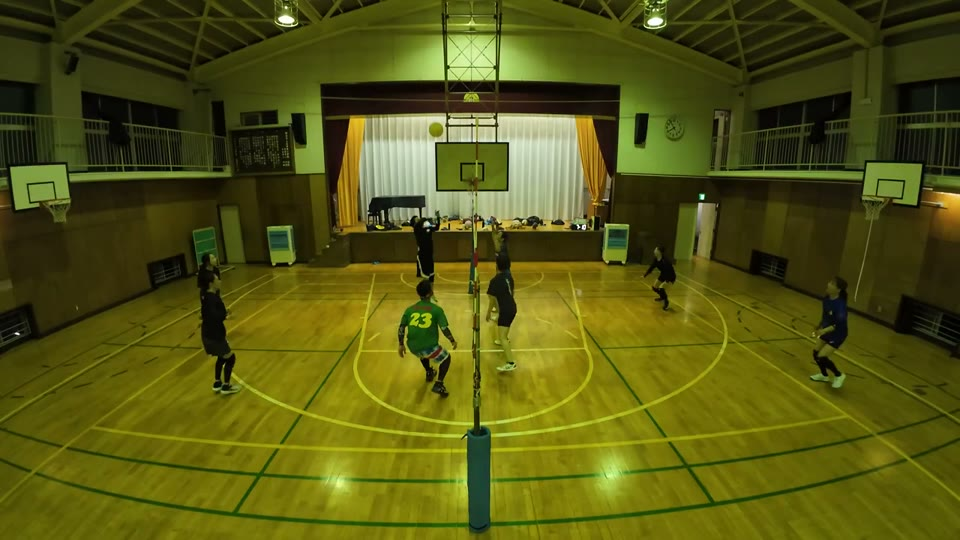
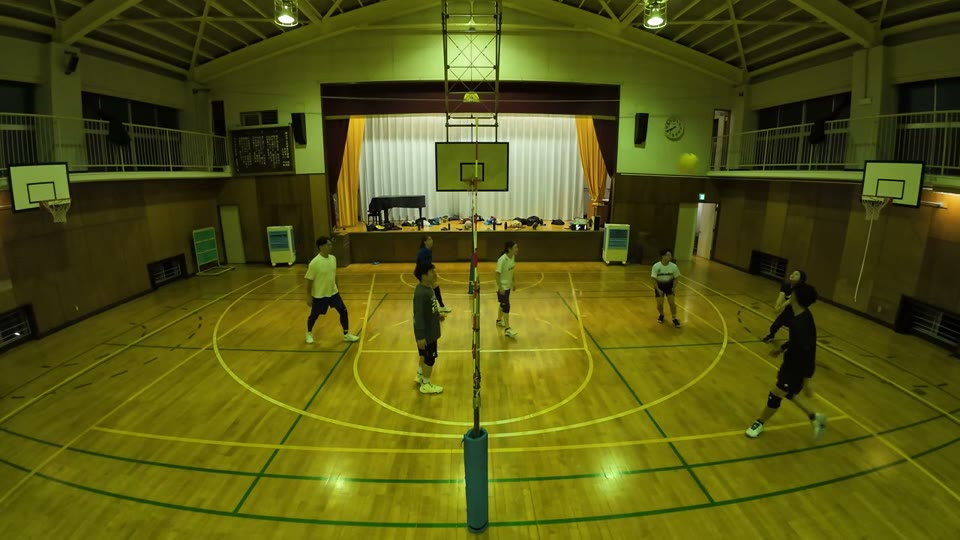
10/24 講評: 同じプレーは1か所だけ・ひとこまは19:44のみ・ゆりこ/りるのジャッジはトス賞へ統合

diff --git a/kouhyou/20261024.html b/kouhyou/20261024.html
@@ -365,20 +365,20 @@
 
   <div class="card summary-card">
     <a class="award" href="#award1">
-      <div class="award-faces"><img src="faces/ruki.jpg" alt="るき"></div>
-      <div class="award-body">
-        <div class="award-label">稲妻アタック賞</div>
-        <div class="award-who">るき</div>
-        <div class="award-why">稲妻が出るほど速いアタックが4本</div>
-      </div>
-      <span class="award-go"><svg viewBox="0 0 24 24" fill="none" stroke="currentColor" stroke-width="2.5"><path d="M9 5l7 7-7 7"></path></svg></span>
-    </a>
-    <a class="award" href="#award2">
       <div class="award-faces"><img src="../assets/drop-icon.jpg" alt="ゆきよ・こうすけ・るき"></div>
       <div class="award-body">
         <div class="award-label">ベストつなぎラリー賞</div>
         <div class="award-who">ゆきよ・こうすけ・るき</div>
         <div class="award-why">レシーブ→ジャンプトス→アタックの3人でつないだ、この日いちばんのラリー</div>
+      </div>
+      <span class="award-go"><svg viewBox="0 0 24 24" fill="none" stroke="currentColor" stroke-width="2.5"><path d="M9 5l7 7-7 7"></path></svg></span>
+    </a>
+    <a class="award" href="#award2">
+      <div class="award-faces"><img src="faces/ruki.jpg" alt="るき"></div>
+      <div class="award-body">
+        <div class="award-label">稲妻アタック賞</div>
+        <div class="award-who">るき</div>
+        <div class="award-why">稲妻が出るほど速いアタックが4本</div>
       </div>
       <span class="award-go"><svg viewBox="0 0 24 24" fill="none" stroke="currentColor" stroke-width="2.5"><path d="M9 5l7 7-7 7"></path></svg></span>
     </a>
@@ -396,7 +396,7 @@
       <div class="award-body">
         <div class="award-label">トス賞</div>
         <div class="award-who">りる・あき・ゆりこ・きりちゃん・まゆみ・こうすけ</div>
-        <div class="award-why">トスでつないだ。バックトス・ジャンプトスも</div>
+        <div class="award-why">トスでつないだ。バックトス・ジャンプトス、ジャッジも</div>
       </div>
       <span class="award-go"><svg viewBox="0 0 24 24" fill="none" stroke="currentColor" stroke-width="2.5"><path d="M9 5l7 7-7 7"></path></svg></span>
     </a>
@@ -420,26 +420,26 @@
     </a>
   </div>
 
-  <h2 id="award1">稲妻アタック賞 — るき</h2>
-  <div class="card">
-    <a class="shot" href="https://youtu.be/5DdH6IJD_qU?t=203" target="_blank" rel="noopener">
-      <img src="shots1024/ruki-1.jpg" alt="るき のアタック" loading="lazy">
-      <span class="play"><span><svg viewBox="0 0 24 24"><path d="M8 5v14l11-7z"></path></svg></span></span>
-      <span class="cap"><span class="at">3:25</span></span>
-    </a>
-    <p>るき のアタック　<a href="https://youtu.be/5DdH6IJD_qU?t=203" target="_blank" rel="noopener">3:25</a> <a href="https://youtu.be/5DdH6IJD_qU?t=359" target="_blank" rel="noopener">6:01</a> <a href="https://youtu.be/5DdH6IJD_qU?t=2928" target="_blank" rel="noopener">48:50</a> <a href="https://youtu.be/5DdH6IJD_qU?t=5021" target="_blank" rel="noopener">83:43</a></p>
-  </div>
-
-  <h2 id="award2">ベストつなぎラリー賞 — ゆきよ・こうすけ・るき</h2>
+  <h2 id="award1">ベストつなぎラリー賞 — ゆきよ・こうすけ・るき</h2>
   <div class="card">
     <a class="shot" href="https://youtu.be/5DdH6IJD_qU?t=2926" target="_blank" rel="noopener">
-      <img src="shots1024/p9l29jh9l49-2.jpg" alt="こうすけ のジャンプトス" loading="lazy">
+      <img src="shots1024/p9l29jh9l49-1.jpg" alt="こうすけ のジャンプトス" loading="lazy">
       <span class="play"><span><svg viewBox="0 0 24 24"><path d="M8 5v14l11-7z"></path></svg></span></span>
       <span class="cap"><span class="at">48:48</span></span>
     </a>
     <p>ゆきよ のレシーブ　<a href="https://youtu.be/5DdH6IJD_qU?t=2924" target="_blank" rel="noopener">48:46</a></p>
     <p>こうすけ のジャンプトス　<a href="https://youtu.be/5DdH6IJD_qU?t=2926" target="_blank" rel="noopener">48:48</a></p>
     <p>るき のアタック　<a href="https://youtu.be/5DdH6IJD_qU?t=2928" target="_blank" rel="noopener">48:50</a></p>
+  </div>
+
+  <h2 id="award2">稲妻アタック賞 — るき</h2>
+  <div class="card">
+    <a class="shot" href="https://youtu.be/5DdH6IJD_qU?t=203" target="_blank" rel="noopener">
+      <img src="shots1024/ruki-2.jpg" alt="るき のアタック" loading="lazy">
+      <span class="play"><span><svg viewBox="0 0 24 24"><path d="M8 5v14l11-7z"></path></svg></span></span>
+      <span class="cap"><span class="at">3:25</span></span>
+    </a>
+    <p>るき のアタック　<a href="https://youtu.be/5DdH6IJD_qU?t=203" target="_blank" rel="noopener">3:25</a> <a href="https://youtu.be/5DdH6IJD_qU?t=359" target="_blank" rel="noopener">6:01</a> <a href="https://youtu.be/5DdH6IJD_qU?t=5021" target="_blank" rel="noopener">83:43</a></p>
   </div>
 
   <h2 id="award3">ナイスレシーブ賞 — ゆきよ・かずえ・こうすけ・きりちゃん・まゆみ</h2>
@@ -453,23 +453,24 @@
     <p>こうすけ のレシーブ　<a href="https://youtu.be/5DdH6IJD_qU?t=707" target="_blank" rel="noopener">11:49</a> <a href="https://youtu.be/5DdH6IJD_qU?t=1094" target="_blank" rel="noopener">18:16</a> <a href="https://youtu.be/5DdH6IJD_qU?t=2728" target="_blank" rel="noopener">45:30</a> <a href="https://youtu.be/5DdH6IJD_qU?t=3251" target="_blank" rel="noopener">54:13</a></p>
     <p>きりちゃん のレシーブ　<a href="https://youtu.be/5DdH6IJD_qU?t=1003" target="_blank" rel="noopener">16:45</a> <a href="https://youtu.be/5DdH6IJD_qU?t=1008" target="_blank" rel="noopener">16:50</a> <a href="https://youtu.be/5DdH6IJD_qU?t=2343" target="_blank" rel="noopener">39:05</a></p>
     <p>まゆみ のレシーブ　<a href="https://youtu.be/5DdH6IJD_qU?t=2087" target="_blank" rel="noopener">34:49</a> <a href="https://youtu.be/5DdH6IJD_qU?t=2226" target="_blank" rel="noopener">37:08</a> <a href="https://youtu.be/5DdH6IJD_qU?t=2311" target="_blank" rel="noopener">38:33</a></p>
-    <p>ゆきよ のレシーブ　<a href="https://youtu.be/5DdH6IJD_qU?t=2733" target="_blank" rel="noopener">45:35</a> <a href="https://youtu.be/5DdH6IJD_qU?t=2844" target="_blank" rel="noopener">47:26</a> <a href="https://youtu.be/5DdH6IJD_qU?t=2924" target="_blank" rel="noopener">48:46</a> <a href="https://youtu.be/5DdH6IJD_qU?t=3196" target="_blank" rel="noopener">53:18</a></p>
+    <p>ゆきよ のレシーブ　<a href="https://youtu.be/5DdH6IJD_qU?t=2733" target="_blank" rel="noopener">45:35</a> <a href="https://youtu.be/5DdH6IJD_qU?t=2844" target="_blank" rel="noopener">47:26</a> <a href="https://youtu.be/5DdH6IJD_qU?t=3196" target="_blank" rel="noopener">53:18</a></p>
   </div>
 
   <h2 id="award4">トス賞 — りる・あき・ゆりこ・きりちゃん・まゆみ・こうすけ</h2>
   <div class="card">
-    <a class="shot" href="https://youtu.be/5DdH6IJD_qU?t=926" target="_blank" rel="noopener">
-      <img src="shots1024/p9l69l79ob9-4.jpg" alt="まゆみ のトス" loading="lazy">
+    <a class="shot" href="https://youtu.be/5DdH6IJD_qU?t=121" target="_blank" rel="noopener">
+      <img src="shots1024/p9l69l79ob9-4.jpg" alt="ゆりこ のジャッジ" loading="lazy">
       <span class="play"><span><svg viewBox="0 0 24 24"><path d="M8 5v14l11-7z"></path></svg></span></span>
-      <span class="cap"><span class="at">15:28</span></span>
+      <span class="cap"><span class="at">2:03</span></span>
     </a>
+    <p>ゆりこ のジャッジ　<a href="https://youtu.be/5DdH6IJD_qU?t=121" target="_blank" rel="noopener">2:03</a></p>
     <p>まゆみ のトス　<a href="https://youtu.be/5DdH6IJD_qU?t=926" target="_blank" rel="noopener">15:28</a> <a href="https://youtu.be/5DdH6IJD_qU?t=3528" target="_blank" rel="noopener">58:50</a></p>
     <p>りる のトス　<a href="https://youtu.be/5DdH6IJD_qU?t=945" target="_blank" rel="noopener">15:47</a> <a href="https://youtu.be/5DdH6IJD_qU?t=1689" target="_blank" rel="noopener">28:11</a> <a href="https://youtu.be/5DdH6IJD_qU?t=2823" target="_blank" rel="noopener">47:05</a> <a href="https://youtu.be/5DdH6IJD_qU?t=3016" target="_blank" rel="noopener">50:18</a> <a href="https://youtu.be/5DdH6IJD_qU?t=4148" target="_blank" rel="noopener">69:10</a></p>
     <p>きりちゃん のトス　<a href="https://youtu.be/5DdH6IJD_qU?t=1056" target="_blank" rel="noopener">17:38</a> <a href="https://youtu.be/5DdH6IJD_qU?t=2312" target="_blank" rel="noopener">38:34</a></p>
     <p>ゆりこ のトス　<a href="https://youtu.be/5DdH6IJD_qU?t=1617" target="_blank" rel="noopener">26:59</a> <a href="https://youtu.be/5DdH6IJD_qU?t=3663" target="_blank" rel="noopener">61:05</a> <a href="https://youtu.be/5DdH6IJD_qU?t=4374" target="_blank" rel="noopener">72:56</a></p>
     <p>あき のトス　<a href="https://youtu.be/5DdH6IJD_qU?t=1728" target="_blank" rel="noopener">28:50</a> <a href="https://youtu.be/5DdH6IJD_qU?t=3225" target="_blank" rel="noopener">53:47</a> <a href="https://youtu.be/5DdH6IJD_qU?t=3230" target="_blank" rel="noopener">53:52</a> <a href="https://youtu.be/5DdH6IJD_qU?t=4201" target="_blank" rel="noopener">70:03</a></p>
-    <p>こうすけ のジャンプトス　<a href="https://youtu.be/5DdH6IJD_qU?t=2926" target="_blank" rel="noopener">48:48</a></p>
     <p>まゆみ のバックトス　<a href="https://youtu.be/5DdH6IJD_qU?t=4736" target="_blank" rel="noopener">78:58</a></p>
+    <p>りる のジャッジ　<a href="https://youtu.be/5DdH6IJD_qU?t=4960" target="_blank" rel="noopener">82:42</a></p>
   </div>
 
   <h2 id="award5">アタック賞 — かずお・やっさん・けん</h2>
@@ -498,17 +499,6 @@
     <p>みなと のアタック　<a href="https://youtu.be/5DdH6IJD_qU?t=2947" target="_blank" rel="noopener">49:09</a></p>
   </div>
 
-  <h2>トスからアタックへ(だれが上げて、だれが決めたか)</h2>
-  <div class="card">
-    <table class="toss-table">
-      <thead><tr><th>時刻</th><th>トス(上げた人)</th><th>アタック(決めた人)</th></tr></thead>
-      <tbody>
-        <tr><td><a href="https://youtu.be/5DdH6IJD_qU?t=926" target="_blank" rel="noopener">15:28</a></td><td><strong>まゆみ</strong></td><td><strong>まーくん</strong></td></tr>
-        <tr><td><a href="https://youtu.be/5DdH6IJD_qU?t=945" target="_blank" rel="noopener">15:47</a></td><td><strong>りる</strong></td><td><strong>こうすけ</strong></td></tr>
-        <tr><td><a href="https://youtu.be/5DdH6IJD_qU?t=3665" target="_blank" rel="noopener">61:07</a></td><td><strong>かずお</strong></td><td><strong>かずお</strong></td></tr>
-      </tbody>
-    </table>
-  </div>
 
   <h2>この日、決めていた人たち</h2>
   <div class="card">
@@ -539,10 +529,8 @@
     <table class="toss-table">
       <thead><tr><th>人</th><th>プレー</th><th>時刻</th></tr></thead>
       <tbody>
-        <tr><td><strong>ゆりこ</strong></td><td>ゆりこ のジャッジ</td><td><a href="https://youtu.be/5DdH6IJD_qU?t=121" target="_blank" rel="noopener">2:03</a></td></tr>
         <tr><td><strong>るき・けん</strong></td><td>珍プレー？
 るき　が　けん　にブロックの極意を伝授しています</td><td><a href="https://youtu.be/5DdH6IJD_qU?t=1182" target="_blank" rel="noopener">19:44</a></td></tr>
-        <tr><td><strong>りる</strong></td><td>りる のジャッジ</td><td><a href="https://youtu.be/5DdH6IJD_qU?t=4960" target="_blank" rel="noopener">82:42</a></td></tr>
       </tbody>
     </table>
   </div>
